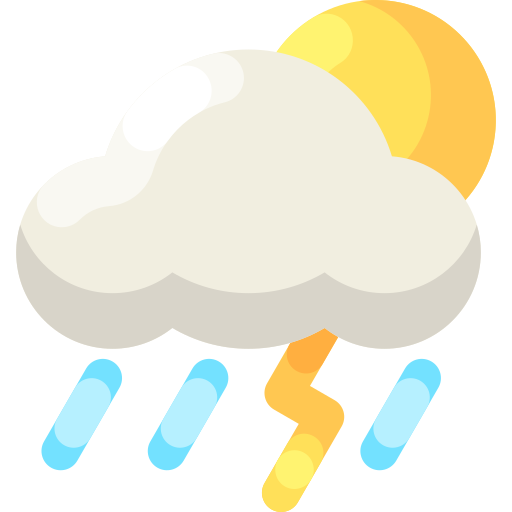
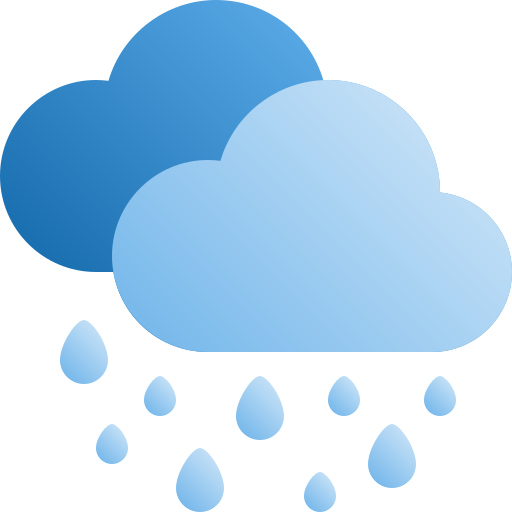
climatic images changed

diff --git a/src/Components/WeatherApp/WeatherApp.js b/src/Components/WeatherApp/WeatherApp.js
@@ -3,11 +3,15 @@ import './WeatherApp.css'
 import morningbg from '../images/bg.jpg'
 import nightbg from '../images/bg3.jpg'
 import sunnyimg from '../images/sunny.png'
-import rain from '../images/rainy.png'
+import rainy from '../images/rainy.png'
 import snow from '../images/snow.png'
-import cloudy from '../images/cloudy.png'
-import thunderrain from '../images/thunderrain.png'
-import partyclody from '../images/party cloudy.png'
+import partyclody from '../images/cloudy.png'
+import scattercloud from '../images/scartedclouds.png'
+import brokencloud from '../images/broken.png'
+import mist from '../images/mist.png'
+import thunderstrom from '../images/thunderstrom.png'
+import rain from '../images/rain.png'
+
 
 
 
@@ -69,27 +73,27 @@ function WeatherApp() {
       Humidity[0].innerHTML = data.main.humidity + " %";
       mint[0].innerHTML =Math.floor(data.main.temp_min)+ " \u00b0c";
       maxt[0].innerHTML =Math.floor(data.main.temp_max)+ " \u00b0c";
-      sunrise[0].innerHTML = "sunrise<br/>" + sunriseTime;
-      sunset[0].innerHTML = "sunset<br/>" + sunsetTime;
+      sunrise[0].innerHTML = sunriseTime;
+      sunset[0].innerHTML =  sunsetTime;
 
       if (data.weather[0].icon === "01d" || data.weather[0].icon === "01n") {
         setWicon(sunnyimg)
       } else if (data.weather[0].icon === "02d" || data.weather[0].icon === "02n") {
-        setWicon(cloudy)
-      } else if (data.weather[0].icon === "02d" || data.weather[0].icon === "02n") {
-        setWicon(cloudy)
+        setWicon(partyclody)
       } else if (data.weather[0].icon === "03d" || data.weather[0].icon === "03n") {
-        setWicon(partyclody)
+        setWicon(scattercloud)
       } else if (data.weather[0].icon === "04d" || data.weather[0].icon === "04n") {
-        setWicon(partyclody)
-      } else if (data.weather[0].icon === "05d" || data.weather[0].icon === "05n") {
-        setWicon(partyclody)
+        setWicon(brokencloud)
       } else if (data.weather[0].icon === "09d" || data.weather[0].icon === "09n") {
-        setWicon(rain)
+        setWicon(rainy)
       } else if (data.weather[0].icon === "10d" || data.weather[0].icon === "10n") {
         setWicon(rain)
+      } else if (data.weather[0].icon === "11d" || data.weather[0].icon === "11n") {
+        setWicon(thunderstrom)
       } else if (data.weather[0].icon === "13d" || data.weather[0].icon === "13n") {
         setWicon(snow)
+      } else if (data.weather[0].icon === "50d" || data.weather[0].icon === "50n") {
+        setWicon(mist)
       } else {
         setWicon(sunnyimg)
       }
@@ -112,9 +116,9 @@ function WeatherApp() {
           <i class="fa-solid fa-magnifying-glass" onClick={() => { search(); setState("") }}></i>
         </div>
         <div className="weather-box-content-img">
-          <h3 className='sunrise'>sunrise<br />----<br />am/pm</h3>
+          {/* <h3 className='sunrise'>sunrise<br />----<br />am/pm</h3> */}
           <img src={wicon} alt="" className='weather-img' />
-          <h3 className='sunset'>sunset <br />----<br />am/pm</h3>
+          {/* <h3 className='sunset'>sunset <br />----<br />am/pm</h3> */}
         </div>
         <div className="weather-box-content-temp">
           <h1 className='temperature-measure'>00 &deg;C</h1>
@@ -139,6 +143,12 @@ function WeatherApp() {
             <h6 className='mint'>00 &deg;</h6>
             <h5>Max Temp</h5>
             <h6 className='maxt'>00 &deg;</h6>
+          </div>
+          <div className="right-content">
+            <h5 title='Sunrise time in your localtime' >sunrise</h5>
+            <h6 className='sunrise' title='Sunrise time in your localtime' >00:00</h6>
+            <h5 title='Sunset time in your localtime'>sunset</h5>
+            <h6 className='sunset' title='Sunset time in your localtime'>00:00</h6>
           </div>
         </div>
       </div>

diff --git a/src/Components/WeatherApp/LocationApp.js b/src/Components/WeatherApp/LocationApp.js
@@ -1,0 +1,45 @@
+import React, { useEffect, useState } from 'react';
+
+function LocationApp() {
+  const [location, setLocation] = useState(null);
+
+  useEffect(() => {
+    // Function to get current location
+    const getCurrentLocation = () => {
+      navigator.geolocation.getCurrentPosition(
+        async (position) => {
+          const { latitude, longitude } = position.coords;
+
+          // Fetch location name using OpenStreetMap Nominatim API
+          const apiUrl = `https://nominatim.openstreetmap.org/reverse?format=json&lat=${latitude}&lon=${longitude}`;
+          const response = await fetch(apiUrl);
+          const data = await response.json();
+
+          // Extract location name from the response
+          const locationName = data.display_name;
+
+          // Update state with the location name
+          setLocation(locationName);
+        },
+        (error) => {
+          console.error('Error getting location:', error.message);
+        }
+      );
+    };
+
+    // Call the function to get current location
+    getCurrentLocation();
+  }, []); // Empty dependency array to run the effect only once
+
+  return (
+    <div>
+      {location ? (
+        <p>Current Location: {location}</p>
+      ) : (
+        <p>Loading location...</p>
+      )}
+    </div>
+  );
+}
+
+export default LocationApp;

diff --git a/src/Components/WeatherApp/WeatherApp.css b/src/Components/WeatherApp/WeatherApp.css
@@ -12,7 +12,7 @@
    border: 5px solid rgb(34, 0, 255);
     margin: auto;
     background: linear-gradient(180deg,rgb(3, 3, 232),rgb(0, 0, 45));
-    width: 500px;
+    width: 600px;
     text-align: center;
     border-radius: 70px;
     overflow: hidden;

diff --git a/src/App.js b/src/App.js
@@ -1,8 +1,11 @@
 import React from 'react'
+import LocationApp from './Components/WeatherApp/LocationApp'
+import './App.css'
 
 function App() {
   return (
     <div>
+      <i class="fa-solid fa-location-dot"></i>
       
     </div>
   )

diff --git a/src/App.css b/src/App.css
@@ -8,7 +8,7 @@
 }
 
 body {
-  color: #ffffff;
+  color: #000000;
   /* background: linear-gradient(180deg, rgb(0, 115, 255), rgb(0, 38, 255)); */
   background-size: cover;
   background-repeat: no-repeat;

diff --git a/src/index.js b/src/index.js
@@ -10,6 +10,7 @@ root.render(
   <>
     {/* <App /> */}
     <WeatherApp/>
+   
   </>
 
  
